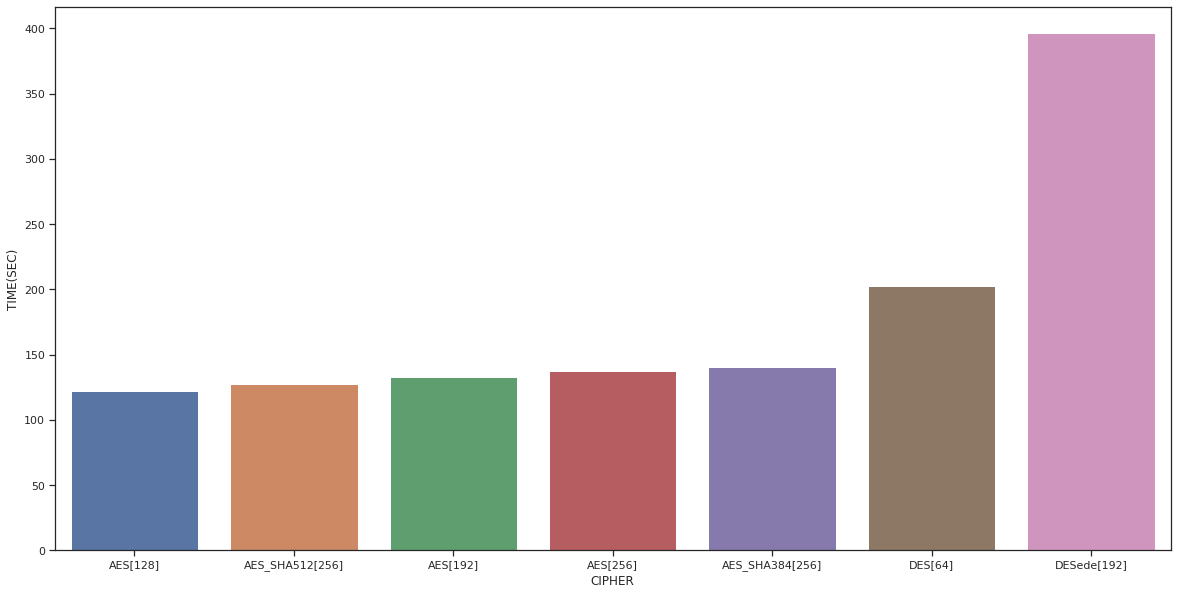
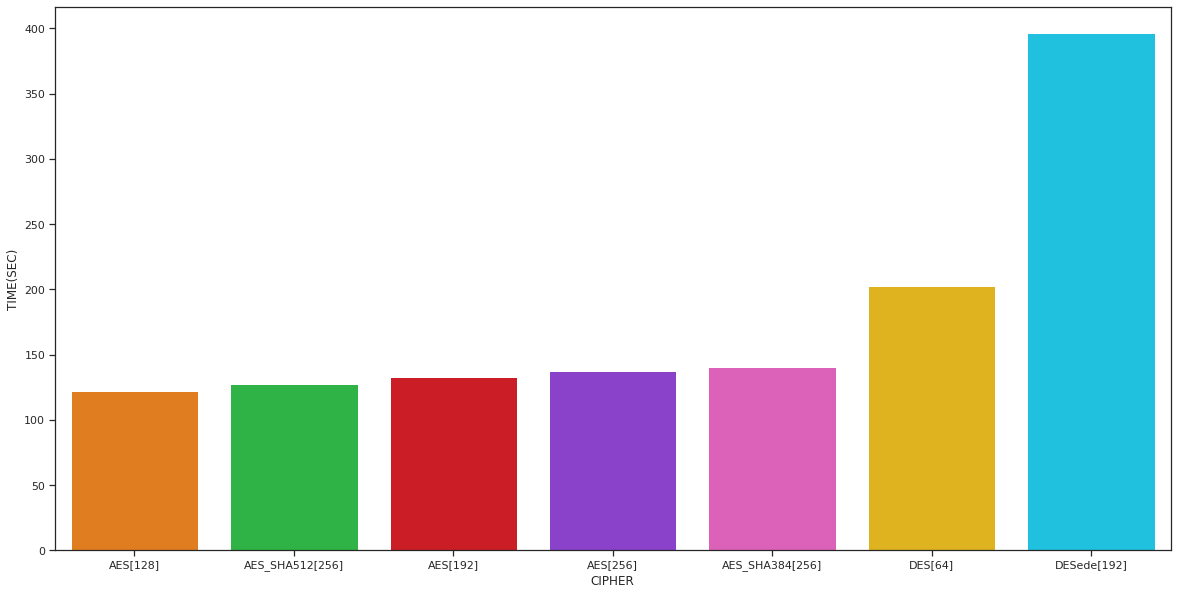
:fire:

Changed region(s): [[0.0612, 0.0303, 1.0, 0.9378]]

diff --git a/README.md b/README.md
@@ -97,7 +97,8 @@ Muestra la cantidad de tiempo en segundos que tomo cada uno de los cifrados
 
 
 ```python
-sns.barplot(x="CIPHER",y="TIME(SEC)",data=info_df)
+colors = ['#FF7C00','#1AC938','#E8000B','#8B2BE2','#F14CC1','#FFC400','#00D7FF']
+sns.barplot(x="CIPHER",y="TIME(SEC)",data=info_df,palette=colors)
 ```
 
 
@@ -119,7 +120,7 @@ Muestra la tasa en bits sobre segundo de cada uno de los cifrados en cifrar el c
 
 
 ```python
-sns.barplot(x="CIPHER",y="TASA(BITS/SEC)",data=info_df)
+sns.barplot(x="CIPHER",y="TASA(BITS/SEC)",data=info_df,palette=colors)
 ```
 
 
@@ -141,7 +142,7 @@ Muestra la tasa en Megabytes sobre segundo de cada uno de los cifrados
 
 
 ```python
-sns.barplot(x="CIPHER",y="TASA(MB/SEC)",data=info_df)
+sns.barplot(x="CIPHER",y="TASA(MB/SEC)",data=info_df,palette=colors)
 ```
 
 
@@ -171,7 +172,8 @@ Muestra el tiempo en segundos que le toma decifrar el corpus $\mathbb D$
 
 
 ```python
-sns.barplot(x="CIPHER",y="TIME(SEC)",data=_info_df)
+colors2 =[colors[4],colors[3],colors[0],colors[2],colors[]]
+sns.barplot(x="CIPHER",y="TIME(SEC)",data=_info_df,palette=colors2)
 ```
 
 
@@ -207,4 +209,16 @@ sns.barplot(x="CIPHER",y="TASA(MB/SEC)",data=_info_df)
     
 ![png](README_files/README_26_1.png)
     
+
+
+
+```python
+sns.color_palette("bright")
+```
+
+
+
+
+<svg  width="550" height="55"><rect x="0" y="0" width="55" height="55" style="fill:#023eff;stroke-width:2;stroke:rgb(255,255,255)"/><rect x="55" y="0" width="55" height="55" style="fill:#ff7c00;stroke-width:2;stroke:rgb(255,255,255)"/><rect x="110" y="0" width="55" height="55" style="fill:#1ac938;stroke-width:2;stroke:rgb(255,255,255)"/><rect x="165" y="0" width="55" height="55" style="fill:#e8000b;stroke-width:2;stroke:rgb(255,255,255)"/><rect x="220" y="0" width="55" height="55" style="fill:#8b2be2;stroke-width:2;stroke:rgb(255,255,255)"/><rect x="275" y="0" width="55" height="55" style="fill:#9f4800;stroke-width:2;stroke:rgb(255,255,255)"/><rect x="330" y="0" width="55" height="55" style="fill:#f14cc1;stroke-width:2;stroke:rgb(255,255,255)"/><rect x="385" y="0" width="55" height="55" style="fill:#a3a3a3;stroke-width:2;stroke:rgb(255,255,255)"/><rect x="440" y="0" width="55" height="55" style="fill:#ffc400;stroke-width:2;stroke:rgb(255,255,255)"/><rect x="495" y="0" width="55" height="55" style="fill:#00d7ff;stroke-width:2;stroke:rgb(255,255,255)"/></svg>
+
 
